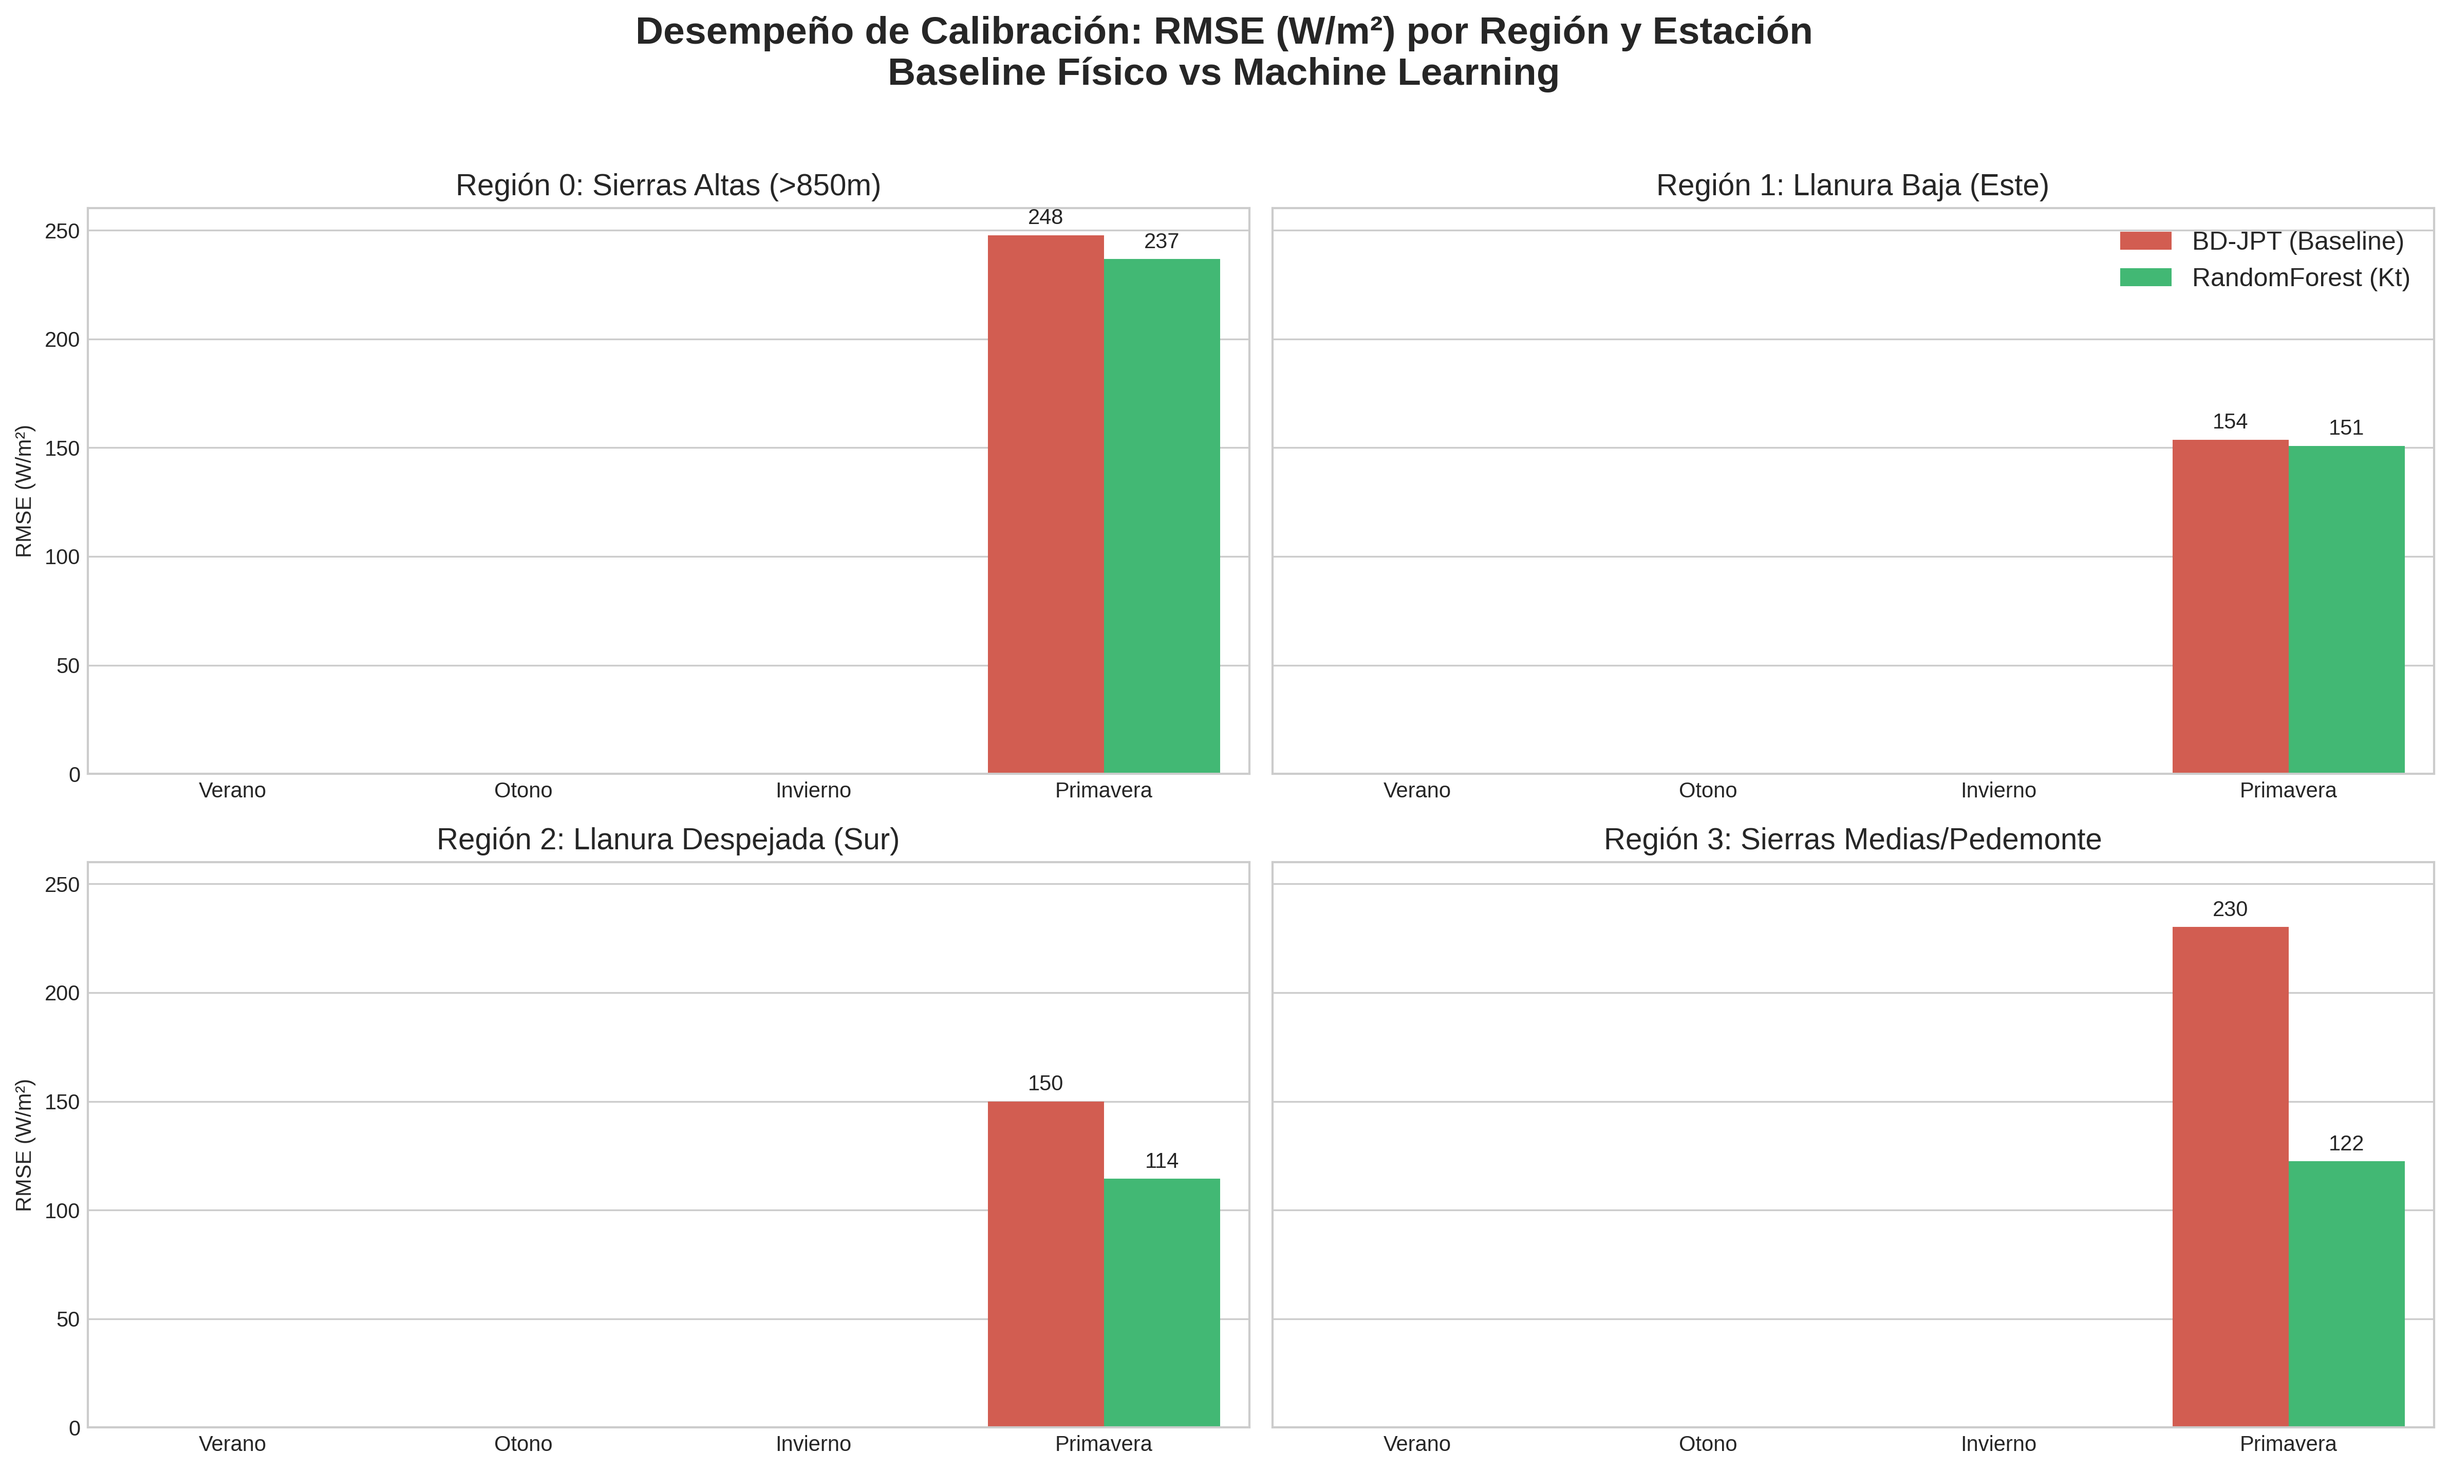
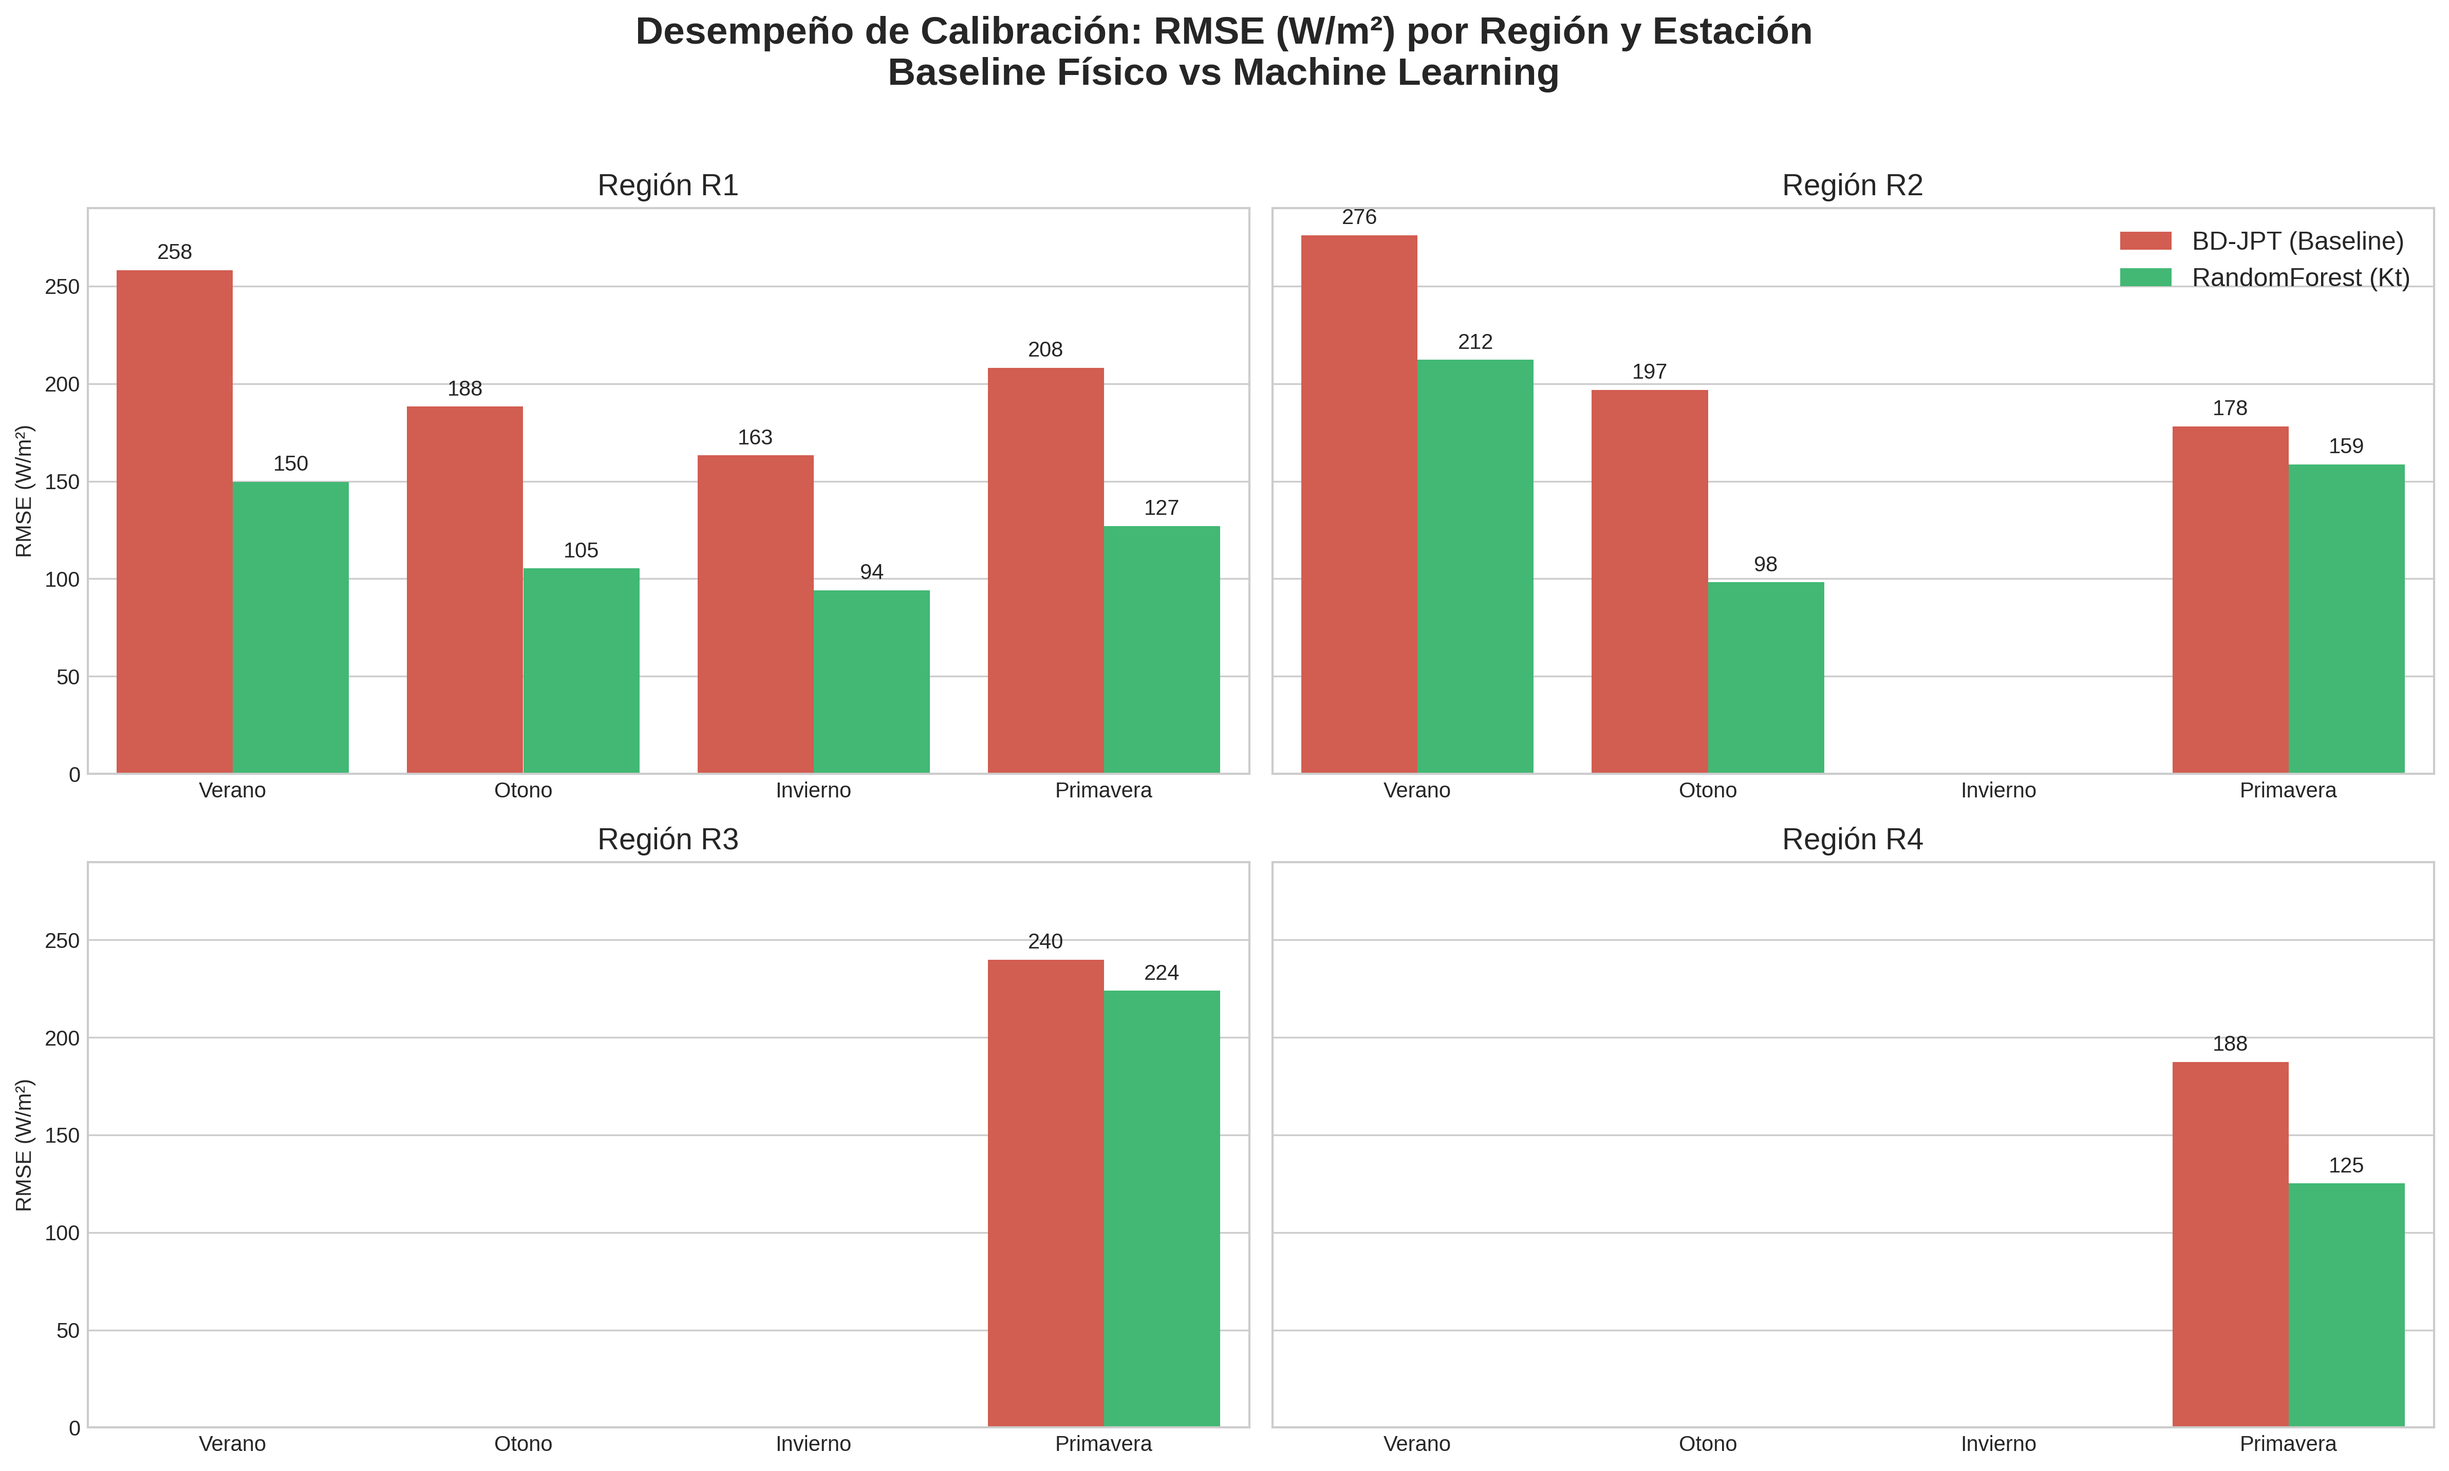
feat(Fase C): refactor clustering for physical coherence and retrain hybrid model

diff --git a/results/bdjpt_regional_estacional_comparison.tex b/results/bdjpt_regional_estacional_comparison.tex
@@ -6,27 +6,33 @@
 \toprule
 Región & Estación & Modelo & $R^2_{Kt}$ & $R^2_{GHI}$ & RMSE (W/m$^2$) & MAE (W/m$^2$) & MBE (W/m$^2$) \\
 \midrule
-R0 & Primavera & BD-JPT (Baseline) & -0.441 & 0.383 & 246.8 & 182.1 & 25.3 \\
-R0 & Primavera & RandomForest (Kt) & 0.111 & 0.457 & 234.5 & 169.1 & -40.6 \\
-R0 & Primavera & Híbrido (BD-JPT + RF) & -0.169 & 0.375 & 253.5 & 177.7 & -46.5 \\
-R1 & Primavera & BD-JPT (Baseline) & -3.265 & 0.761 & 153.7 & 112.6 & -52.1 \\
-R1 & Primavera & RandomForest (Kt) & -0.935 & 0.776 & 151.0 & 117.6 & -10.1 \\
-R1 & Primavera & Híbrido (BD-JPT + RF) & -1.047 & 0.769 & 152.8 & 119.4 & -6.9 \\
-R2 & Primavera & BD-JPT (Baseline) & -1.058 & 0.788 & 152.2 & 106.6 & 10.3 \\
-R2 & Primavera & RandomForest (Kt) & -0.321 & 0.875 & 114.8 & 81.9 & -16.4 \\
-R2 & Primavera & Híbrido (BD-JPT + RF) & -0.404 & 0.866 & 119.4 & 83.6 & -13.3 \\
-R3 & Verano & BD-JPT (Baseline) & -0.226 & 0.395 & 248.0 & 204.7 & -14.0 \\
-R3 & Verano & RandomForest (Kt) & 0.634 & 0.800 & 139.3 & 103.9 & -11.4 \\
-R3 & Verano & Híbrido (BD-JPT + RF) & 0.588 & 0.792 & 142.0 & 106.5 & -12.5 \\
-R3 & Otono & BD-JPT (Baseline) & -0.523 & 0.474 & 189.0 & 140.2 & 27.6 \\
-R3 & Otono & RandomForest (Kt) & 0.610 & 0.850 & 96.2 & 73.7 & -17.0 \\
-R3 & Otono & Híbrido (BD-JPT + RF) & 0.549 & 0.828 & 102.2 & 77.7 & -14.5 \\
-R3 & Invierno & BD-JPT (Baseline) & -0.306 & 0.247 & 172.6 & 137.9 & 4.0 \\
-R3 & Invierno & RandomForest (Kt) & 0.571 & 0.745 & 98.0 & 76.2 & -22.3 \\
-R3 & Invierno & Híbrido (BD-JPT + RF) & 0.530 & 0.714 & 104.8 & 81.2 & -19.5 \\
-R3 & Primavera & BD-JPT (Baseline) & -0.373 & 0.434 & 230.8 & 181.7 & -1.4 \\
-R3 & Primavera & RandomForest (Kt) & 0.495 & 0.845 & 122.1 & 91.4 & -7.2 \\
-R3 & Primavera & Híbrido (BD-JPT + RF) & 0.483 & 0.825 & 129.9 & 97.9 & -8.9 \\
+R1 & Verano & BD-JPT (Baseline) & -0.423 & 0.335 & 258.2 & 203.5 & 50.3 \\
+R1 & Verano & RandomForest (Kt) & 0.561 & 0.765 & 149.7 & 115.3 & -8.8 \\
+R1 & Verano & Híbrido (BD-JPT + RF) & 0.453 & 0.725 & 162.4 & 125.4 & -12.5 \\
+R1 & Otono & BD-JPT (Baseline) & -0.458 & 0.451 & 188.3 & 139.0 & 24.2 \\
+R1 & Otono & RandomForest (Kt) & 0.584 & 0.818 & 105.3 & 82.0 & -19.0 \\
+R1 & Otono & Híbrido (BD-JPT + RF) & 0.500 & 0.791 & 111.7 & 86.2 & -16.9 \\
+R1 & Invierno & BD-JPT (Baseline) & -0.394 & 0.241 & 163.2 & 131.5 & 0.2 \\
+R1 & Invierno & RandomForest (Kt) & 0.390 & 0.735 & 94.1 & 72.2 & -15.0 \\
+R1 & Invierno & Híbrido (BD-JPT + RF) & 0.338 & 0.695 & 101.6 & 78.1 & -12.4 \\
+R1 & Primavera & BD-JPT (Baseline) & -0.466 & 0.516 & 208.1 & 164.0 & -14.7 \\
+R1 & Primavera & RandomForest (Kt) & 0.367 & 0.829 & 127.0 & 95.4 & -19.9 \\
+R1 & Primavera & Híbrido (BD-JPT + RF) & 0.324 & 0.812 & 132.5 & 100.7 & -22.1 \\
+R2 & Verano & BD-JPT (Baseline) & -0.813 & 0.290 & 276.1 & 226.2 & 78.0 \\
+R2 & Verano & RandomForest (Kt) & 0.087 & 0.571 & 212.2 & 163.9 & 17.1 \\
+R2 & Verano & Híbrido (BD-JPT + RF) & 0.027 & 0.533 & 222.5 & 178.2 & 19.9 \\
+R2 & Otono & BD-JPT (Baseline) & -0.531 & 0.498 & 196.8 & 150.4 & 25.3 \\
+R2 & Otono & RandomForest (Kt) & 0.740 & 0.874 & 98.2 & 71.4 & -14.8 \\
+R2 & Otono & Híbrido (BD-JPT + RF) & 0.738 & 0.865 & 101.7 & 74.5 & -13.6 \\
+R2 & Primavera & BD-JPT (Baseline) & -0.562 & 0.636 & 178.1 & 134.0 & 49.1 \\
+R2 & Primavera & RandomForest (Kt) & 0.088 & 0.725 & 158.6 & 125.8 & -5.5 \\
+R2 & Primavera & Híbrido (BD-JPT + RF) & -0.148 & 0.671 & 171.4 & 132.7 & 9.5 \\
+R3 & Primavera & BD-JPT (Baseline) & -1.381 & 0.422 & 239.9 & 178.6 & 43.2 \\
+R3 & Primavera & RandomForest (Kt) & -0.753 & 0.498 & 223.9 & 174.4 & -8.4 \\
+R3 & Primavera & Híbrido (BD-JPT + RF) & -0.662 & 0.496 & 218.7 & 159.5 & 23.0 \\
+R4 & Primavera & BD-JPT (Baseline) & -0.693 & 0.724 & 187.5 & 141.0 & 32.9 \\
+R4 & Primavera & RandomForest (Kt) & 0.423 & 0.874 & 125.1 & 89.3 & -15.5 \\
+R4 & Primavera & Híbrido (BD-JPT + RF) & 0.398 & 0.869 & 127.4 & 89.3 & -17.4 \\
 \bottomrule
 \end{tabular}
 \end{table}

diff --git a/scripts/fase_4_plot_regional_results.py b/scripts/fase_4_plot_regional_results.py
@@ -31,7 +31,7 @@ def extract_table():
     return df_final
 
 def plot_performance(df):
-    plt.style.use('seaborn-whitegrid')
+    plt.style.use('seaborn-v0_8-whitegrid')
     
     # Solo comparar BD-JPT vs RandomForest para simplificar
     df_plot = df[df['Model'].isin(['BD-JPT (Baseline)', 'RandomForest (Kt)'])]
@@ -41,34 +41,43 @@ def plot_performance(df):
     df_plot['Season'] = pd.Categorical(df_plot['Season'], categories=season_order, ordered=True)
     df_plot = df_plot.sort_values(['Region', 'Season'])
 
-    fig, axes = plt.subplots(2, 2, figsize=(16, 10), sharey=True)
+    regions = sorted(df_plot['Region'].unique())
+    n_regions = len(regions)
+    cols = 2
+    rows = (n_regions + 1) // cols
+    
+    fig, axes = plt.subplots(rows, cols, figsize=(16, 5 * rows), sharey=True)
     fig.suptitle('Desempeño de Calibración: RMSE (W/m²) por Región y Estación\nBaseline Físico vs Machine Learning', fontsize=18, fontweight='bold', y=0.95)
     
-    regions = ['R0', 'R1', 'R2', 'R3']
-    titles = [
-        'Región 0: Sierras Altas (>850m)', 
-        'Región 1: Llanura Baja (Este)', 
-        'Región 2: Llanura Despejada (Sur)', 
-        'Región 3: Sierras Medias/Pedemonte'
-    ]
-    
-    for i, (reg, title) in enumerate(zip(regions, titles)):
-        ax = axes[i//2, i%2]
+    # Flatten axes if necessary
+    if rows == 1:
+        axes = [axes]
+    else:
+        axes = axes.ravel()
+        
+    for i, reg in enumerate(regions):
+        ax = axes[i]
         df_reg = df_plot[df_plot['Region'] == reg]
         
         sns.barplot(data=df_reg, x='Season', y='RMSE', hue='Model', ax=ax, palette=['#e74c3c', '#2ecc71'])
-        ax.set_title(title, fontsize=14)
+        ax.set_title(f"Región {reg}", fontsize=14)
         ax.set_xlabel('')
-        ax.set_ylabel('RMSE (W/m²)' if i%2 == 0 else '')
+        ax.set_ylabel('RMSE (W/m²)' if i % cols == 0 else '')
         
         # Add values on top of bars
         for container in ax.containers:
             ax.bar_label(container, fmt='%.0f', padding=3, fontsize=10)
             
         if i != 1:
-            ax.legend_.remove()
+            if ax.get_legend() is not None:
+                ax.legend_.remove()
         else:
-            ax.legend(title='', fontsize=12)
+            if ax.get_legend() is not None:
+                ax.legend(title='', fontsize=12)
+
+    # Hide any unused subplots
+    for j in range(i + 1, len(axes)):
+        fig.delaxes(axes[j])
 
     plt.tight_layout(rect=[0, 0, 1, 0.93])
     plt.savefig('results/fase4_seasonal_rmse_comparison.png', dpi=300, bbox_inches='tight')

diff --git a/scripts/fase_2_solar_clustering.py b/scripts/fase_2_solar_clustering.py
@@ -100,8 +100,8 @@ def main():
     
     print(f"   ✓ Estaciones listas para clustering: {len(df_merge)}")
     
-    # 4. Preparación de variables de clustering
-    features = ['lat_num', 'lon_num', 'altitude_m', 'mean_calibrated_ghi', 'mean_clearness_index']
+    # 4. Preparación de variables de clustering puramente físicas
+    features = ['altitude_m', 'mean_calibrated_ghi', 'mean_clearness_index']
     print(f"   Variables seleccionadas: {features}")
     
     X = df_merge[features].copy()
